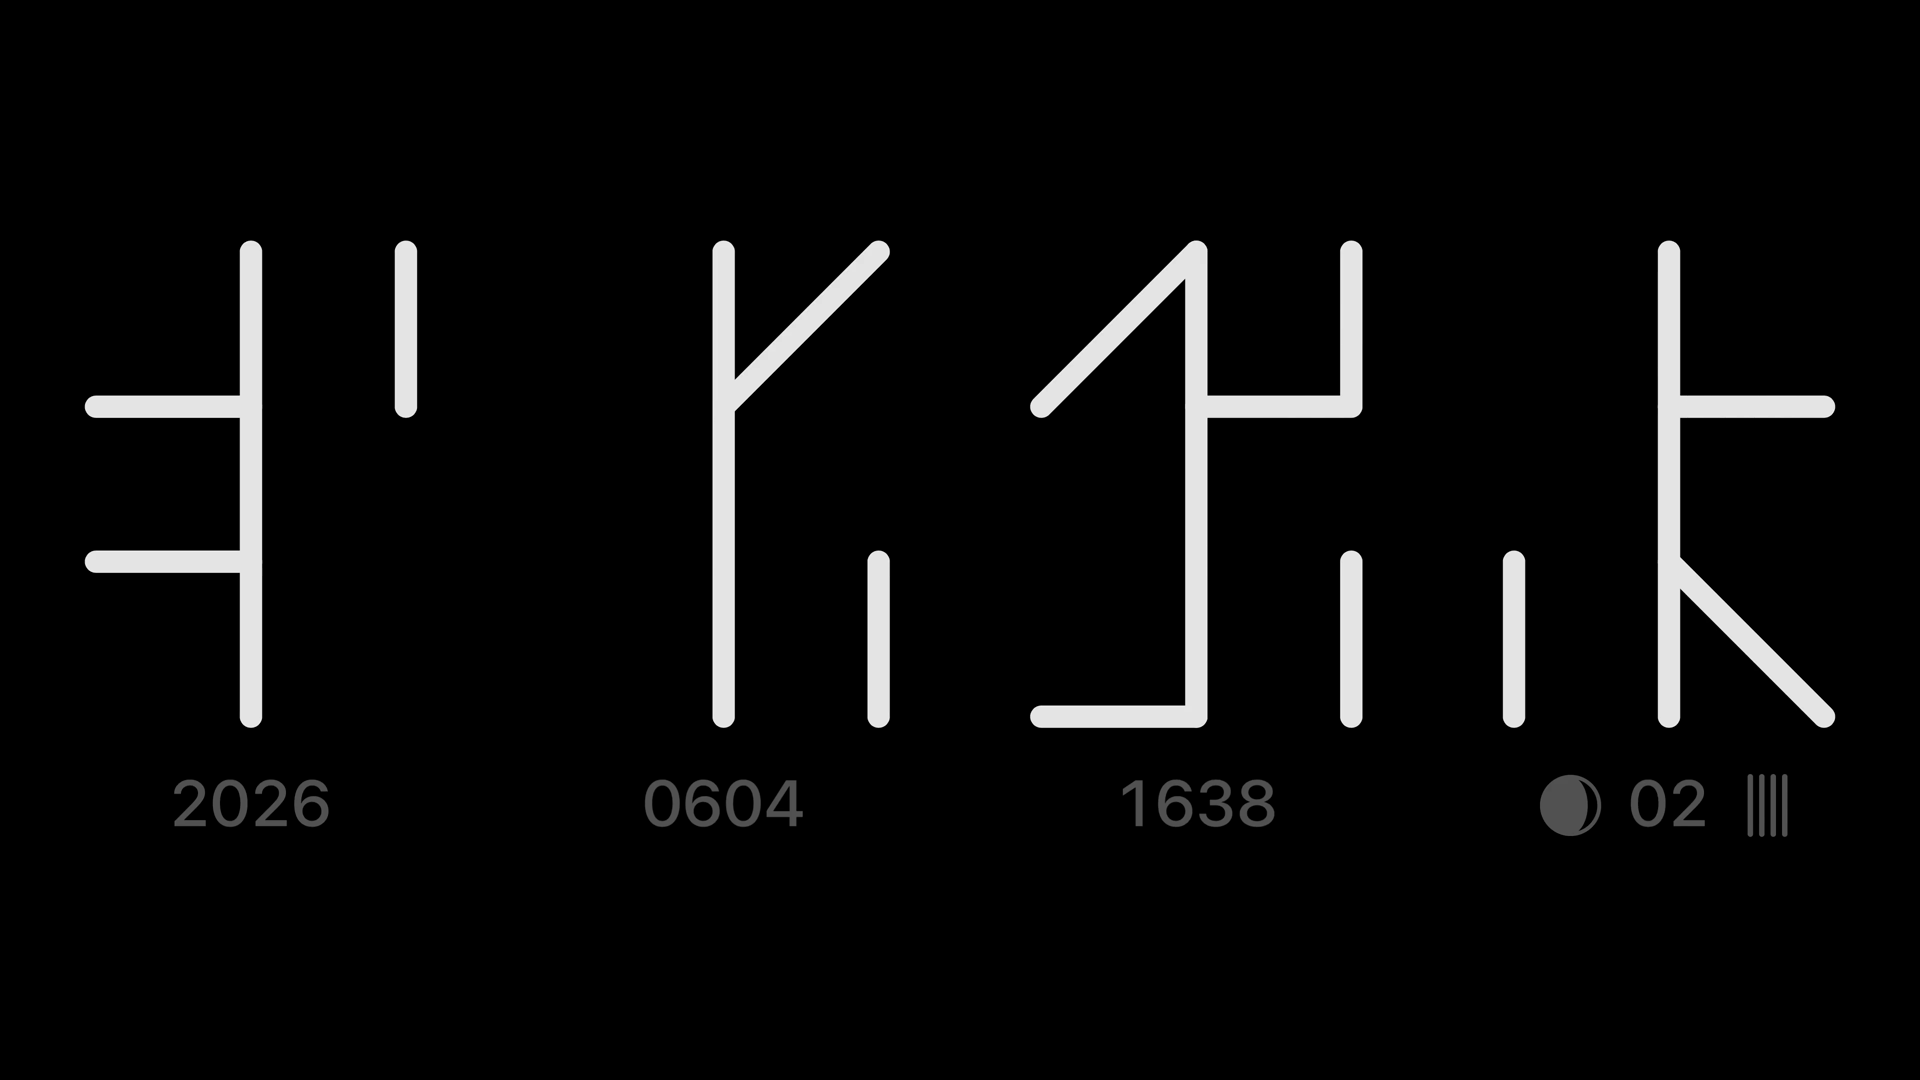
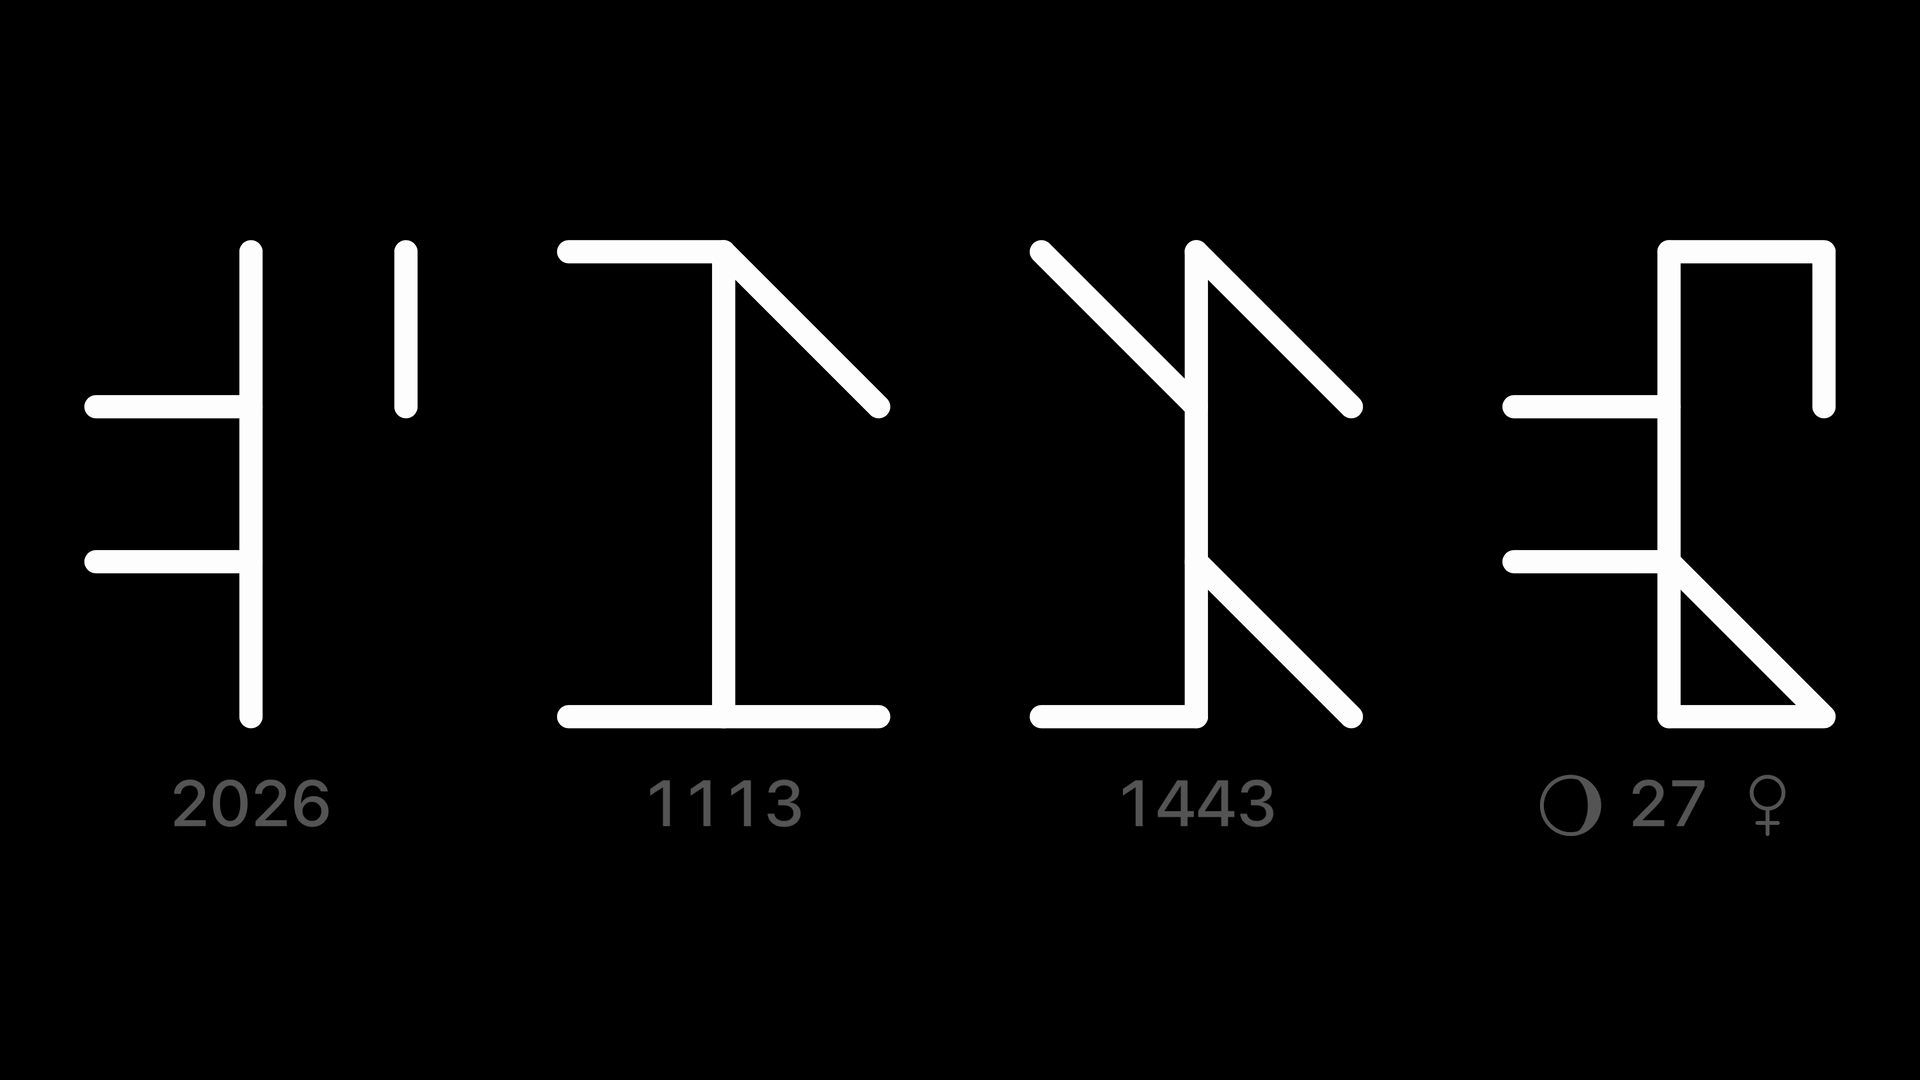
Describe the planetary weekday symbols and refresh the screenshots for 1.0.1

diff --git a/README.md b/README.md
@@ -8,10 +8,10 @@ English | [繁體中文](README-zh_TW.md)
 
 ## What you'll see
 
-Cistercian numerals write any number from 1 to 9999 as a single figure. Ciscrux uses four of them: the year, the date, the time and the seconds. In the screenshot above they read `2026`, `0604` (June 4), `1638` (16:38) and `02` seconds.
+Cistercian numerals write any number from 1 to 9999 as a single figure. Ciscrux uses four of them: the year, the date, the time and the seconds. In the screenshot above they read `2026`, `1113` (November 13), `1443` (14:43) and `27` seconds.
 
 - **Always the time**: the hour and minute are always shown. The year, the date and the seconds can each be turned off.
-- **Moon phase and weekday**: the seconds figure also carries the moon phase and the day of the week in its lower half. With **Show Hint** on, a small moon on its left and tally marks on its right show the same thing at a glance, one mark for Monday up to seven for Sunday.
+- **Moon phase and weekday**: the seconds figure also carries the moon phase and the day of the week in its lower half. With **Show Hint** on, a small moon on its left shows the moon phase, and the symbol on its right is the planet of the day. Each day of the week has long been paired with a planet: the Moon ☽ for Monday, Mars ♂ for Tuesday, Mercury ☿ for Wednesday, Jupiter ♃ for Thursday, Venus ♀ for Friday, Saturn ♄ for Saturday and the Sun ☉ for Sunday.
 - **Drawn stroke by stroke**: when a number changes, the new figure is drawn one stroke at a time. You can switch to a cross-fade or an instant change.
 - **One row or two**: line the figures up in a row, or stack them in two rows.
 - **Make it yours**: pick the colors and the line thickness, and show the regular digits under each figure while you learn to read them.
@@ -50,7 +50,7 @@ Update with `brew upgrade --cask ciscrux`. Uninstall with `brew uninstall --cask
 | Option | What it does |
 |---|---|
 | **Line thickness** | Line width as a share of the figure's height, 1–15%. Default 5%. |
-| **Show Hint** | Show the regular digits under each figure, and the moon and tally marks beside the seconds. Off by default. |
+| **Show Hint** | Show the regular digits under each figure, and the moon and the planet of the day beside the seconds. Off by default. |
 | **Show Year (YYYY)** | Show the year. |
 | **Show Month / Day (MMDD)** | Show the date. |
 | **Show Seconds \| Moon phase \| Weekday** | Show the seconds, with the moon phase and the weekday. |

diff --git a/README-zh_TW.md b/README-zh_TW.md
@@ -8,10 +8,10 @@
 
 ## 畫面上有什麼
 
-熙篤會數字只用一個符號，就能寫出 1 到 9999 的任何數字。Ciscrux 畫出四個這樣的符號：年、日期、時間和秒。上面截圖裡的四個符號分別是 `2026`、`0604`（6 月 4 日）、`1638`（16 點 38 分）和 `02` 秒。
+熙篤會數字只用一個符號，就能寫出 1 到 9999 的任何數字。Ciscrux 畫出四個這樣的符號：年、日期、時間和秒。上面截圖裡的四個符號分別是 `2026`、`1113`（11 月 13 日）、`1443`（14 點 43 分）和 `27` 秒。
 
 - **一定看得到時間**：時和分永遠顯示；年、日期、秒可以各自關掉。
-- **月相和星期**：秒的符號下半部還記著月相和星期幾。開啟 **Show Hint** 時，符號左邊還會出現小月亮、右邊出現直線劃記，表示同樣的資訊，一眼就看得出來：星期一是一條，星期日是七條。
+- **月相和星期**：秒的符號下半部還記著月相和星期幾。開啟 **Show Hint** 時，符號左邊會出現小月亮表示月相，右邊則是當天的行星符號。一週七天自古就各對應一顆星：星期一是月亮 ☽、星期二火星 ♂、星期三水星 ☿、星期四木星 ♃、星期五金星 ♀、星期六土星 ♄、星期日太陽 ☉。
 - **一筆一筆畫出來**：數字改變時，新的符號會一筆一筆畫上去。也可以改成淡入淡出，或直接切換。
 - **排成一列或兩列**：符號可以排成一列，也可以分成上下兩列。
 - **照你的喜好調整**：顏色和線條粗細都能改；還在學怎麼讀的時候，可以在每個符號下方顯示一般的數字對照。
@@ -52,7 +52,7 @@ brew install --cask vulcanshen/tap/ciscrux
 | 選項 | 作用 |
 |---|---|
 | **Line thickness** | 線條粗細，以符號高度的百分比計算，1–15%，預設 5%。 |
-| **Show Hint** | 在每個符號下方顯示一般的數字，秒的旁邊也會出現月亮和劃記。預設關閉。 |
+| **Show Hint** | 在每個符號下方顯示一般的數字，秒的旁邊也會出現月亮和當天的行星符號。預設關閉。 |
 | **Show Year (YYYY)** | 顯示年。 |
 | **Show Month / Day (MMDD)** | 顯示月和日。 |
 | **Show Seconds \| Moon phase \| Weekday** | 顯示秒，連同月相和星期。 |
